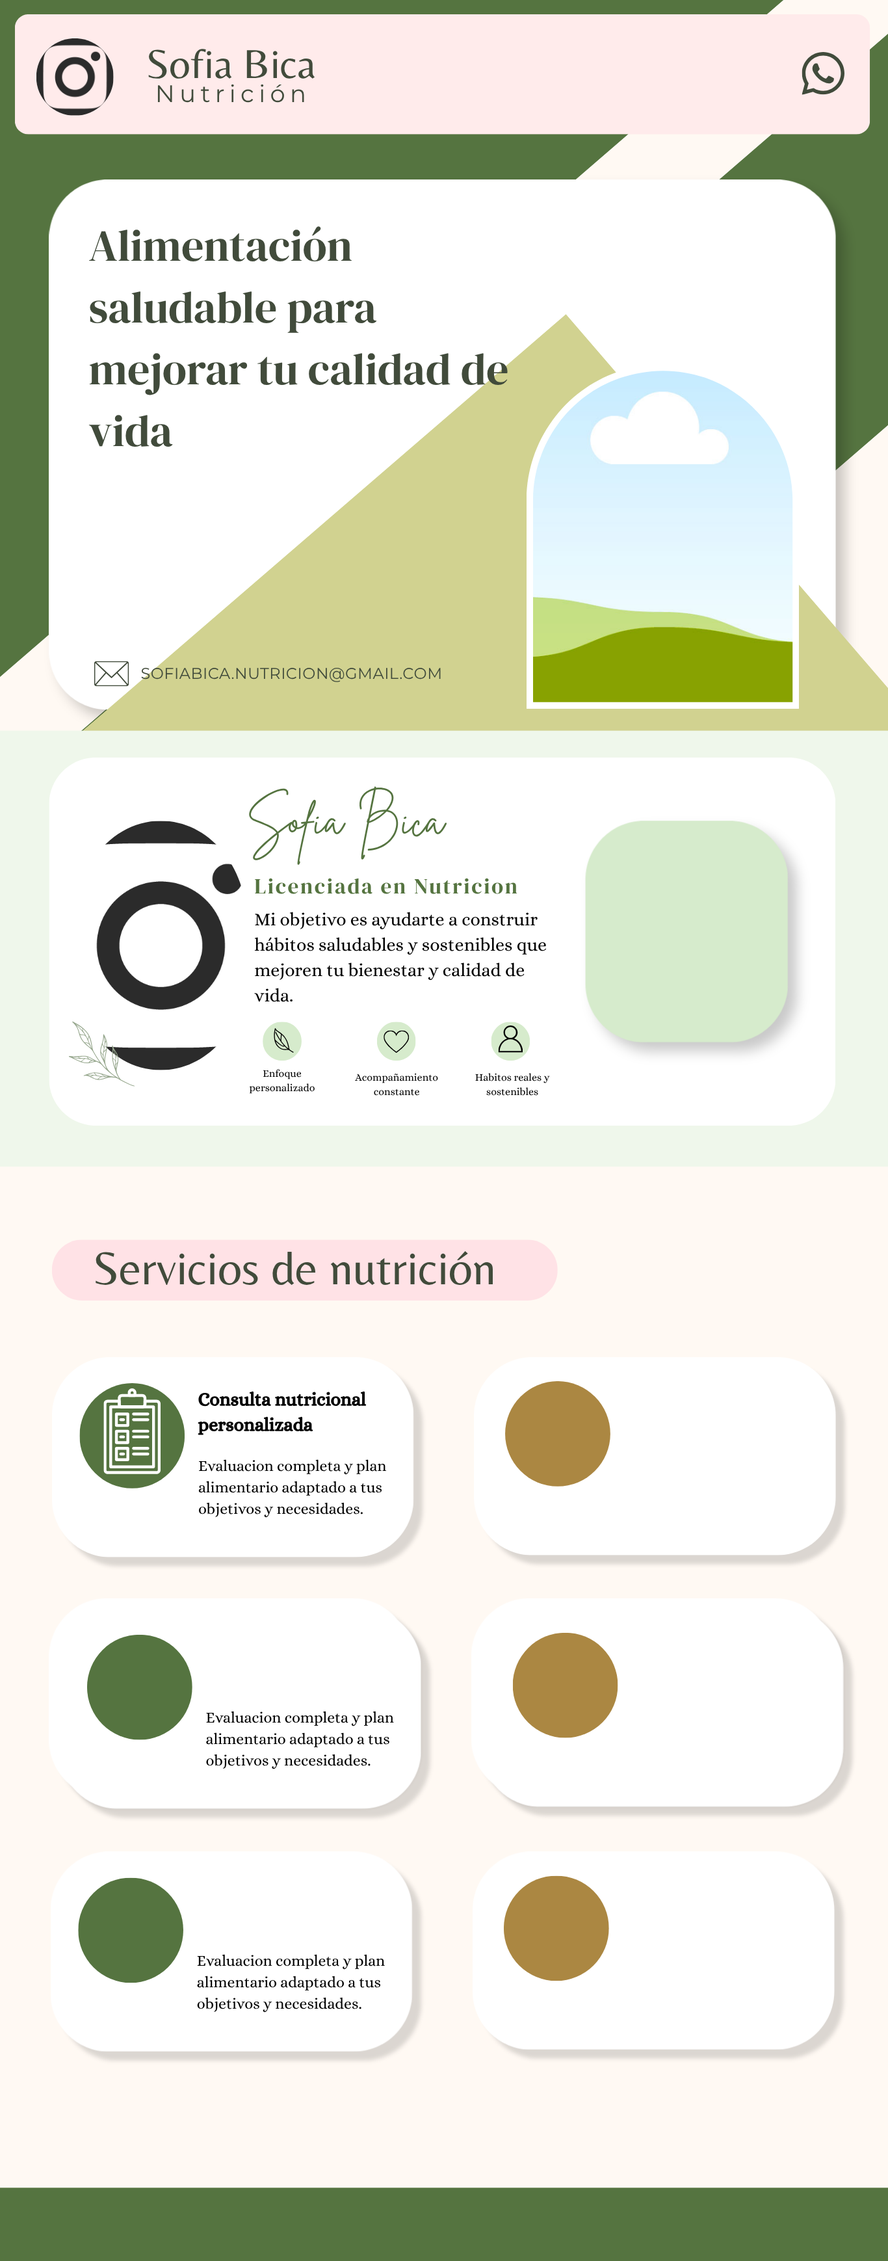
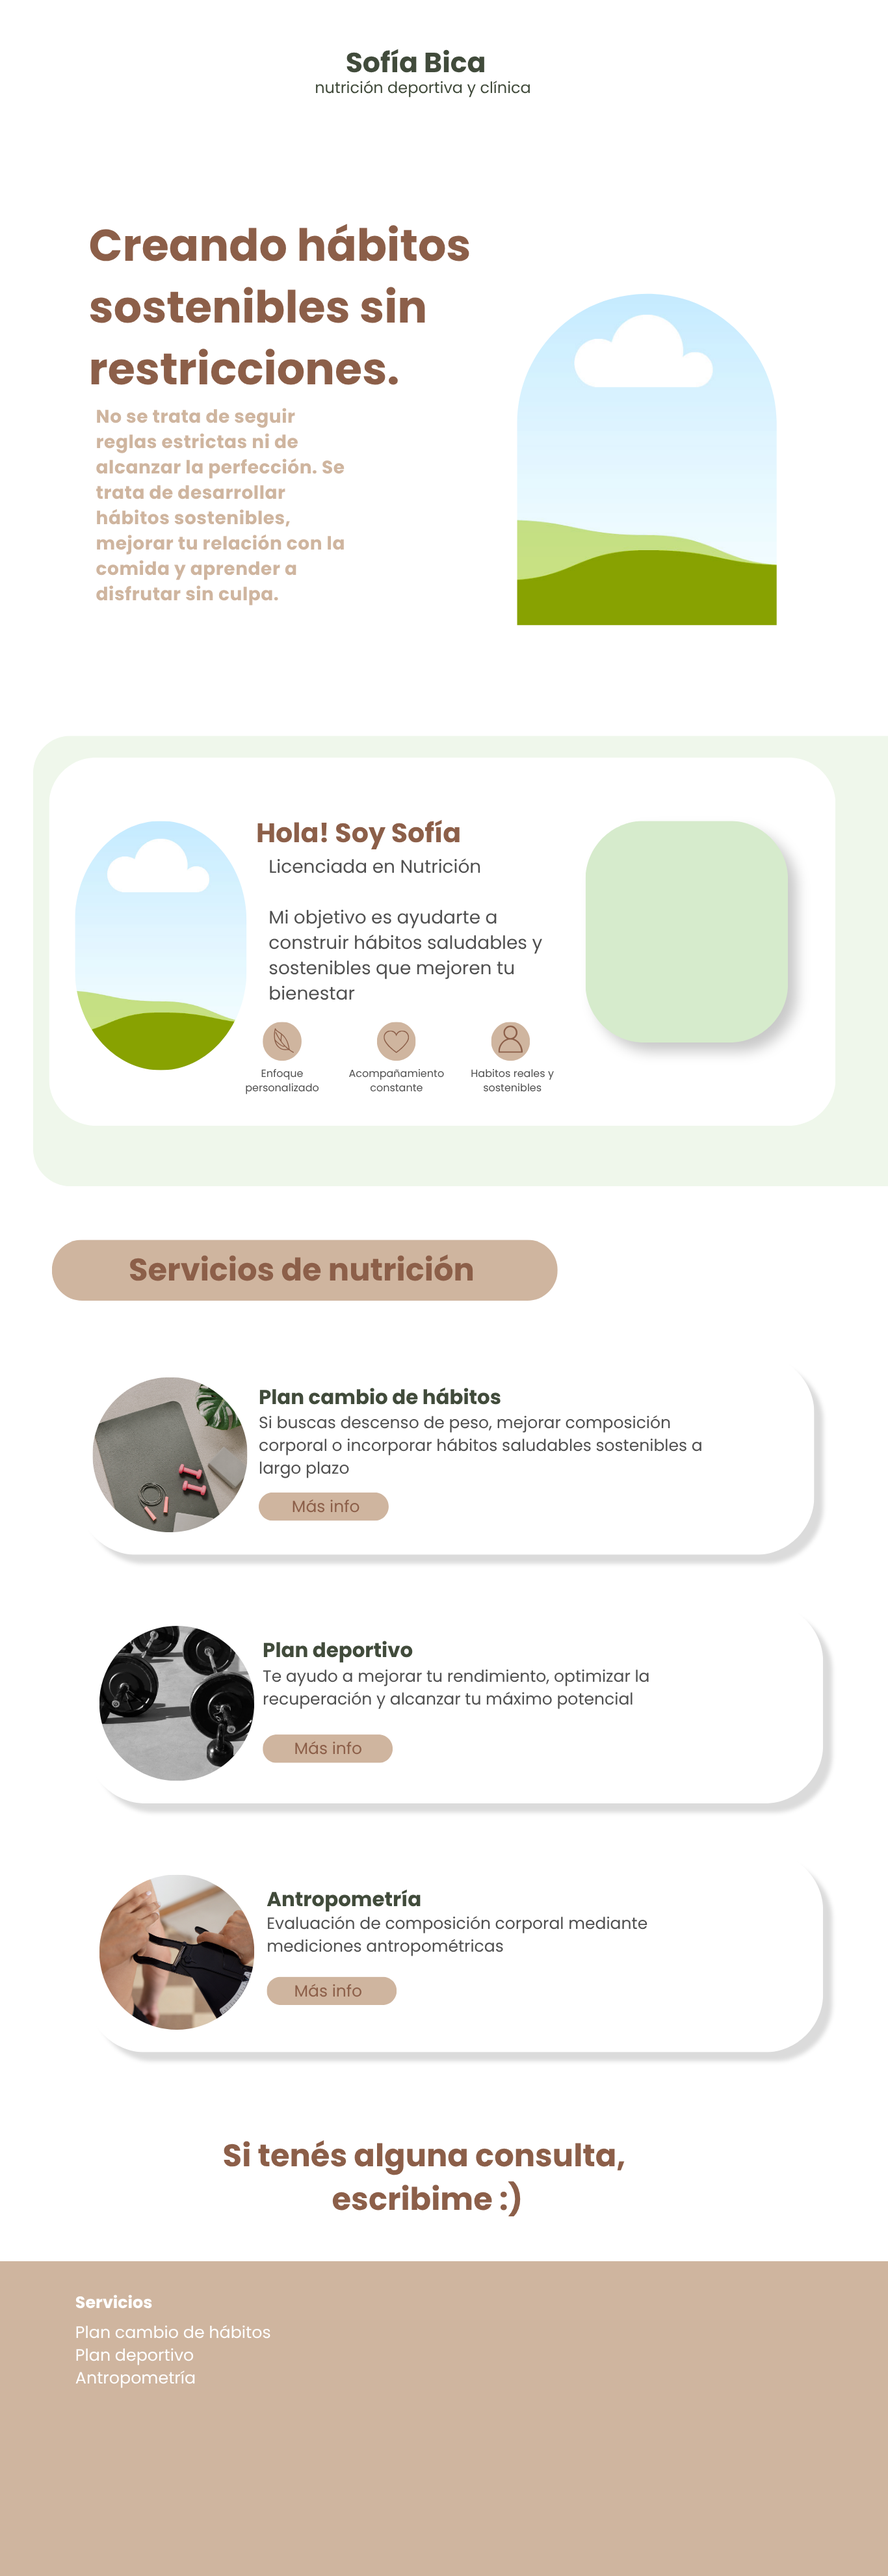
Add files via upload

diff --git a/sofia.html b/sofia.html
@@ -1,0 +1,48 @@
+<!DOCTYPE html>
+<html lang="es">
+<head>
+    <meta charset="UTF-8">
+    <meta name="viewport" content="width=device-width, initial-scale=1.0">
+    <title>NUTRICION</title>
+
+    <style>
+        body {
+            margin 0;
+        }
+        .pagina {
+    position: relative;
+    width: 100%;
+    max-width: 430px;
+    margin: 0 auto;
+}
+
+ .diseno {
+    display: block;
+    width: 100%;
+    height: auto;
+}
+
+        .boton {
+            position: absolute;
+            left: 40%;
+            top: 50%;
+            padding: 12px 24px;
+            background: #2563eb;
+            color: white;
+            border: none;
+            border-radius: 8px;
+            cursor: pointer;
+        }
+
+
+    </style>
+</head>
+<body>
+     <div class="pagina">
+        <img class="diseno" src="mobile.png" alt="Diseño de mi página">
+
+    </div>
+
+   
+</body>
+</html>
